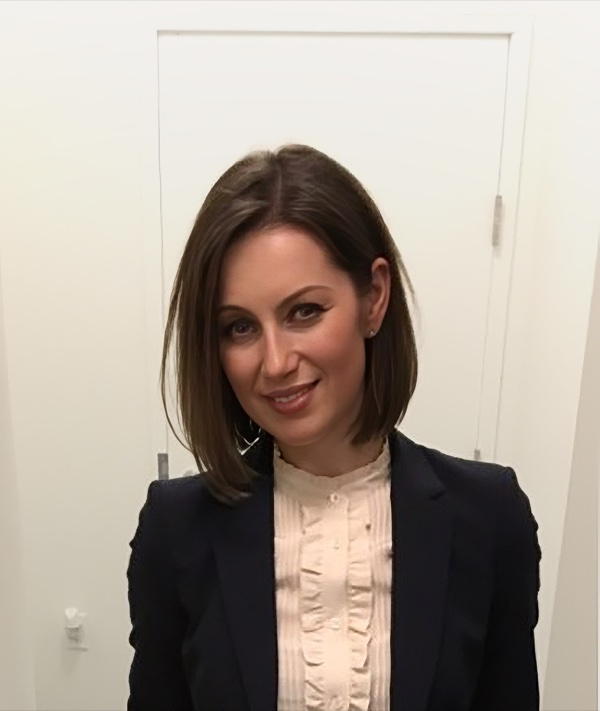
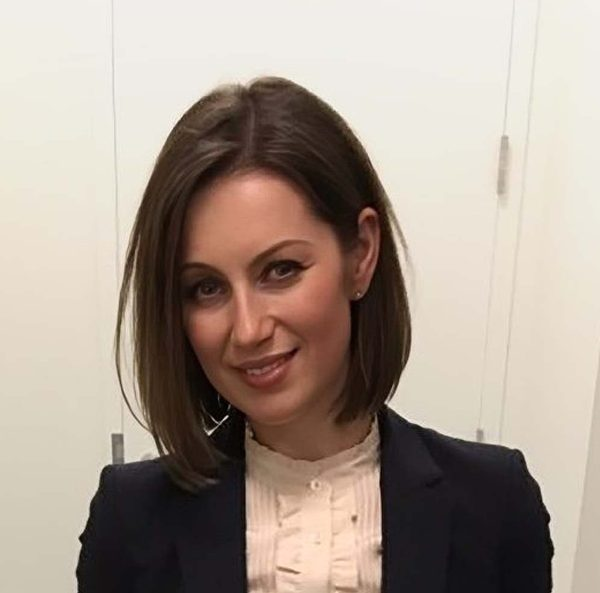
Add files via upload

diff --git a/index.html b/index.html
@@ -576,23 +576,23 @@
 
   <div class="team-grid">
     <div class="team-member animate-in from-bottom delay-1">
-      <div class="team-photo"><img src="images/team-greg-meredith.webp" alt="Greg Meredith" loading="lazy" style="transform:scale(1.2) translateY(10px); transform-origin:center 40%;"></div>
+      <div class="team-photo"><img src="images/team-greg-meredith.jpg" alt="Greg Meredith" loading="lazy"></div>
       <h3>Greg Meredith</h3><p class="role">Founder</p>
     </div>
     <div class="team-member animate-in from-bottom delay-2">
-      <div class="team-photo"><img src="images/team-mike-stay.webp" alt="Mike Stay" loading="lazy" style="object-position:center top;"></div>
+      <div class="team-photo"><img src="images/team-mike-stay.jpg" alt="Mike Stay" loading="lazy"></div>
       <h3>Mike Stay</h3><p class="role">Director of Research</p>
     </div>
     <div class="team-member animate-in from-bottom delay-3">
-      <div class="team-photo"><img src="images/lilia-rusu.jpg" alt="Lilia Rusu" loading="lazy" style="transform:scale(1.23) translateY(8px); transform-origin:center center;"></div>
+      <div class="team-photo"><img src="images/lilia-rusu.jpg" alt="Lilia Rusu" loading="lazy"></div>
       <h3>Lilia Rusu</h3><p class="role">General Manager</p>
     </div>
     <div class="team-member animate-in from-bottom delay-4">
-      <div class="team-photo"><img src="images/nicolas-riddle.jpg" alt="Nicolas Riddle" loading="lazy" style="object-fit:cover; object-position:center 5%; transform:scale(1.43);"></div>
+      <div class="team-photo"><img src="images/nicolas-riddle.jpg" alt="Nicolas Riddle" loading="lazy"></div>
       <h3>Nicolas Riddle</h3><p class="role">Board Director &amp; COO</p>
     </div>
     <div class="team-member animate-in from-bottom delay-1">
-      <div class="team-photo"><img src="images/team-hannah-adams.webp" alt="Hannah Adams" loading="lazy" style="transform:scale(1.15) translateY(-3px); transform-origin:center top;"></div>
+      <div class="team-photo"><img src="images/team-hannah-adams.jpg" alt="Hannah Adams" loading="lazy"></div>
       <h3>Hannah Adams</h3><p class="role">Creative Director</p>
     </div>
     <div class="team-member animate-in from-bottom delay-2">
@@ -604,23 +604,23 @@
       <h3>Stephen Alexander</h3><p class="role">President and CEO</p>
     </div>
     <div class="team-member animate-in from-bottom delay-4">
-      <div class="team-photo"><img src="images/ralph-benko.jpg" alt="Ralph Benko" loading="lazy" style="object-fit:cover; object-position:center 25%; transform:scale(1.15); transform-origin:center center;"></div>
+      <div class="team-photo"><img src="images/ralph-benko.jpg" alt="Ralph Benko" loading="lazy"></div>
       <h3>Ralph Benko</h3><p class="role">General Counsel</p>
     </div>
     <div class="team-member animate-in from-bottom delay-1">
-      <div class="team-photo"><img src="images/daria-bohdanova.jpg" alt="Daria Bohdanova" loading="lazy" style="object-position: center 25%; transform: scale(1.1) translateY(-25px);"></div>
+      <div class="team-photo"><img src="images/daria-bohdanova.jpg" alt="Daria Bohdanova" loading="lazy"></div>
       <h3>Daria Bohdanova</h3><p class="role">Technical Writing</p>
     </div>
     <div class="team-member animate-in from-bottom delay-2">
-      <div class="team-photo"><img src="images/dylon-edwards.jpg" alt="Dylon Edwards" loading="lazy" style="object-position: center 25%;"></div>
+      <div class="team-photo"><img src="images/dylon-edwards.jpg" alt="Dylon Edwards" loading="lazy"></div>
       <h3>Dylon Edwards</h3><p class="role">Language Tools</p>
     </div>
     <div class="team-member animate-in from-bottom delay-3">
-      <div class="team-photo"></div>
+      <div class="team-photo"><img src="images/serhii-lypko.jpg" alt="Serhii Lypko" loading="lazy"></div>
       <h3>Serhii Lypko</h3><p class="role">Language Tools</p>
     </div>
     <div class="team-member animate-in from-bottom delay-4">
-      <div class="team-photo"></div>
+      <div class="team-photo"><img src="images/christian-b-wells.jpg" alt="Christian B. Wells" loading="lazy"></div>
       <h3>Christian B. Wells</h3><p class="role">MeTTaCycle</p>
     </div>
     <div class="team-member animate-in from-bottom delay-2">
@@ -628,43 +628,43 @@
       <h3>Sergey Kryloff</h3><p class="role">MeTTaCycle</p>
     </div>
     <div class="team-member animate-in from-bottom delay-3">
-      <div class="team-photo"><img src="images/adam-vandervorst.jpg" alt="Adam Vandervorst" loading="lazy" style="object-position: center 25%; transform: scale(1.15) translateY(-20px);"></div>
+      <div class="team-photo"><img src="images/adam-vandervorst.jpg" alt="Adam Vandervorst" loading="lazy"></div>
       <h3>Adam Vandervorst</h3><p class="role">MORK</p>
     </div>
     <div class="team-member animate-in from-bottom delay-4">
-      <div class="team-photo"><img src="images/nazar-yanovets.jpg" alt="Nazar Yanovets" loading="lazy" style="object-position: center 35%; transform: scale(1.3);"></div>
+      <div class="team-photo"><img src="images/nazar-yanovets.jpg" alt="Nazar Yanovets" loading="lazy"></div>
       <h3>Nazar Yanovets</h3><p class="role">Integration Team</p>
     </div>
     <div class="team-member animate-in from-bottom delay-1">
-      <div class="team-photo"><img src="images/steven-preston.jpg" alt="Steven Preston" loading="lazy" style="object-position: center 25%;"></div>
+      <div class="team-photo"><img src="images/steven-preston.jpg" alt="Steven Preston" loading="lazy"></div>
       <h3>Steven Preston</h3><p class="role">Integration Team</p>
     </div>
     <div class="team-member animate-in from-bottom delay-2">
-      <div class="team-photo"><img src="images/andrii-stefaniv.jpg" alt="Andrii Stefaniv" loading="lazy" style="object-position: center 25%; transform: scale(1.34);"></div>
+      <div class="team-photo"><img src="images/andrii-stefaniv.jpg" alt="Andrii Stefaniv" loading="lazy"></div>
       <h3>Andrii Stefaniv</h3><p class="role">Integration Team</p>
     </div>
     <div class="team-member animate-in from-bottom delay-3">
-      <div class="team-photo"><img src="images/andrii-babentsev.jpg" alt="Andrii Babentsev" loading="lazy" style="object-position: center 5%; transform: scale(1.17) translateY(-15px);"></div>
+      <div class="team-photo"><img src="images/andrii-babentsev.jpg" alt="Andrii Babentsev" loading="lazy"></div>
       <h3>Andrii Babentsev</h3><p class="role">Integration Team</p>
     </div>
     <div class="team-member animate-in from-bottom delay-4">
-      <div class="team-photo"><img src="images/team-nash-foster.webp" alt="Nash Foster" loading="lazy" style="transform:scale(1.6); transform-origin:center 20%;"></div>
+      <div class="team-photo"><img src="images/team-nash-foster.jpg" alt="Nash Foster" loading="lazy"></div>
       <h3>Nash Foster</h3><p class="role">Integration Team</p>
     </div>
     <div class="team-member animate-in from-bottom delay-1">
-      <div class="team-photo"><img src="images/ihor-rudynskyi.jpg" alt="Ihor Rudynskyi" loading="lazy" style="object-position: center 5%; transform: scale(1.3) translateY(-15px);"></div>
+      <div class="team-photo"><img src="images/ihor-rudynskyi.jpg" alt="Ihor Rudynskyi" loading="lazy"></div>
       <h3>Ihor Rudynskyi</h3><p class="role">F1R3SKY Team</p>
     </div>
     <div class="team-member animate-in from-bottom delay-2">
-      <div class="team-photo"><img src="images/diana-yevitska.jpg" alt="Diana Yevitska" loading="lazy" style="object-position: center 30%; transform: scale(1.4);"></div>
+      <div class="team-photo"><img src="images/diana-yevitska.jpg" alt="Diana Yevitska" loading="lazy"></div>
       <h3>Diana Yevitska</h3><p class="role">F1R3SKY Team</p>
     </div>
     <div class="team-member animate-in from-bottom delay-3">
-      <div class="team-photo"><img src="images/aidan-stay.jpg" alt="Aidan Stay" loading="lazy" style="object-position: center 25%;"></div>
+      <div class="team-photo"><img src="images/aidan-stay.jpg" alt="Aidan Stay" loading="lazy"></div>
       <h3>Aidan Stay</h3><p class="role">F1R3SKY Team</p>
     </div>
     <div class="team-member animate-in from-bottom delay-1">
-      <div class="team-photo"><img src="images/oleksandr-kyryliuk.jpg" alt="Oleksandr Kyryliuk" loading="lazy" style="object-position: center 25%;"></div>
+      <div class="team-photo"><img src="images/oleksandr-kyryliuk.jpg" alt="Oleksandr Kyryliuk" loading="lazy"></div>
       <h3>Oleksandr Kyryliuk</h3><p class="role">F1R3SKY Team</p>
     </div>
     <div class="team-member animate-in from-bottom delay-2">

diff --git a/recrop.py b/recrop.py
@@ -1,0 +1,144 @@
+#!/usr/bin/env python3
+"""
+Re-crop all team photos with consistent head sizing and positioning.
+Goal: All heads roughly same size, top of head aligned near top of frame.
+Target: face takes up ~45% of frame height, top of head at ~8% from top.
+"""
+import cv2
+import numpy as np
+import os
+
+IMG_DIR = "/Users/hannahadams/Library/CloudStorage/Dropbox/01 ACTIVE WORK/F1R3FLY PROJECTS/02 F1R3FLY Website/08 Website Rebuild/images"
+ORIG_DIR = os.path.join(IMG_DIR, "originals")
+OUTPUT_SIZE = 600
+
+TEAM_PHOTOS = [
+    "team-greg-meredith.webp",
+    "team-mike-stay.webp",
+    "lilia-rusu.jpg",
+    "nicolas-riddle.jpg",
+    "team-hannah-adams.webp",
+    "stephen-alexander.jpg",
+    "ralph-benko.jpg",
+    "daria-bohdanova.jpg",
+    "dylon-edwards.jpg",
+    "serhii-lypko.jpg",
+    "christian-b-wells.jpg",
+    "adam-vandervorst.jpg",
+    "nazar-yanovets.jpg",
+    "steven-preston.jpg",
+    "andrii-stefaniv.jpg",
+    "andrii-babentsev.jpg",
+    "team-nash-foster.webp",
+    "ihor-rudynskyi.jpg",
+    "diana-yevitska.jpg",
+    "aidan-stay.jpg",
+    "oleksandr-kyryliuk.jpg",
+]
+
+face_cascade = cv2.CascadeClassifier(
+    cv2.data.haarcascades + "haarcascade_frontalface_default.xml"
+)
+
+def detect_face(img):
+    gray = cv2.cvtColor(img, cv2.COLOR_BGR2GRAY)
+    for scale in [1.1, 1.15, 1.2, 1.3]:
+        faces = face_cascade.detectMultiScale(gray, scaleFactor=scale, minNeighbors=4, minSize=(30, 30))
+        if len(faces) > 0:
+            areas = [w * h for (x, y, w, h) in faces]
+            idx = np.argmax(areas)
+            return faces[idx]
+    return None
+
+
+def crop_with_consistent_framing(img, face_rect):
+    """
+    Crop so that:
+    - The face (detected rectangle) occupies a consistent fraction of the output
+    - Top of the detected face box sits at a consistent position from top
+    
+    Strategy:
+    - We want the face_height to be about 40% of the final crop height
+    - We want the top of the face to be at about 12% from the top of the crop
+      (leaving room for forehead/hair above the face detection box)
+    """
+    h, w = img.shape[:2]
+    fx, fy, fw, fh = face_rect
+    
+    # Target: face height = 40% of crop, face top at 12% from crop top
+    TARGET_FACE_RATIO = 0.40
+    TARGET_FACE_TOP = 0.12
+    
+    # Calculate required crop size based on face height
+    crop_size = int(fh / TARGET_FACE_RATIO)
+    
+    # Ensure crop_size doesn't exceed image dimensions
+    crop_size = min(crop_size, w, h)
+    
+    # Calculate where top of crop should be so face top is at TARGET_FACE_TOP
+    crop_top = int(fy - TARGET_FACE_TOP * crop_size)
+    
+    # Calculate horizontal center on face
+    face_cx = fx + fw // 2
+    crop_left = face_cx - crop_size // 2
+    
+    # Clamp to image bounds
+    crop_top = max(0, min(crop_top, h - crop_size))
+    crop_left = max(0, min(crop_left, w - crop_size))
+    
+    cropped = img[crop_top:crop_top + crop_size, crop_left:crop_left + crop_size]
+    return cropped
+
+
+def process_photo(filename):
+    from pathlib import Path
+    filepath = os.path.join(ORIG_DIR, filename)
+    if not os.path.exists(filepath):
+        print(f"  SKIP (not found): {filename}")
+        return False
+    
+    img = cv2.imread(filepath)
+    if img is None:
+        print(f"  SKIP (can't read): {filename}")
+        return False
+    
+    h, w = img.shape[:2]
+    face = detect_face(img)
+    
+    if face is not None:
+        fx, fy, fw, fh = face
+        cropped = crop_with_consistent_framing(img, face)
+        status = f"face {fw}x{fh} at ({fx},{fy})"
+    else:
+        # Fallback: center crop
+        side = min(w, h)
+        top = int(h * 0.05)
+        top = min(top, h - side)
+        left = (w - side) // 2
+        cropped = img[top:top + side, left:left + side]
+        status = "NO FACE - center crop"
+    
+    resized = cv2.resize(cropped, (OUTPUT_SIZE, OUTPUT_SIZE), interpolation=cv2.INTER_LANCZOS4)
+    
+    stem = Path(filename).stem
+    output_path = os.path.join(IMG_DIR, stem + ".jpg")
+    cv2.imwrite(output_path, resized, [cv2.IMWRITE_JPEG_QUALITY, 92])
+    
+    final_kb = os.path.getsize(output_path) // 1024
+    print(f"  OK: {filename} ({w}x{h}) -> {OUTPUT_SIZE}x{OUTPUT_SIZE} [{status}] {final_kb}KB")
+    return True
+
+
+def main():
+    print(f"Re-cropping {len(TEAM_PHOTOS)} photos with consistent head sizing...")
+    print(f"Target: face=40% of frame, face top at 12% from top\n")
+    
+    success = 0
+    for photo in TEAM_PHOTOS:
+        if process_photo(photo):
+            success += 1
+    
+    print(f"\nDone! {success}/{len(TEAM_PHOTOS)} processed.")
+
+if __name__ == "__main__":
+    main()
